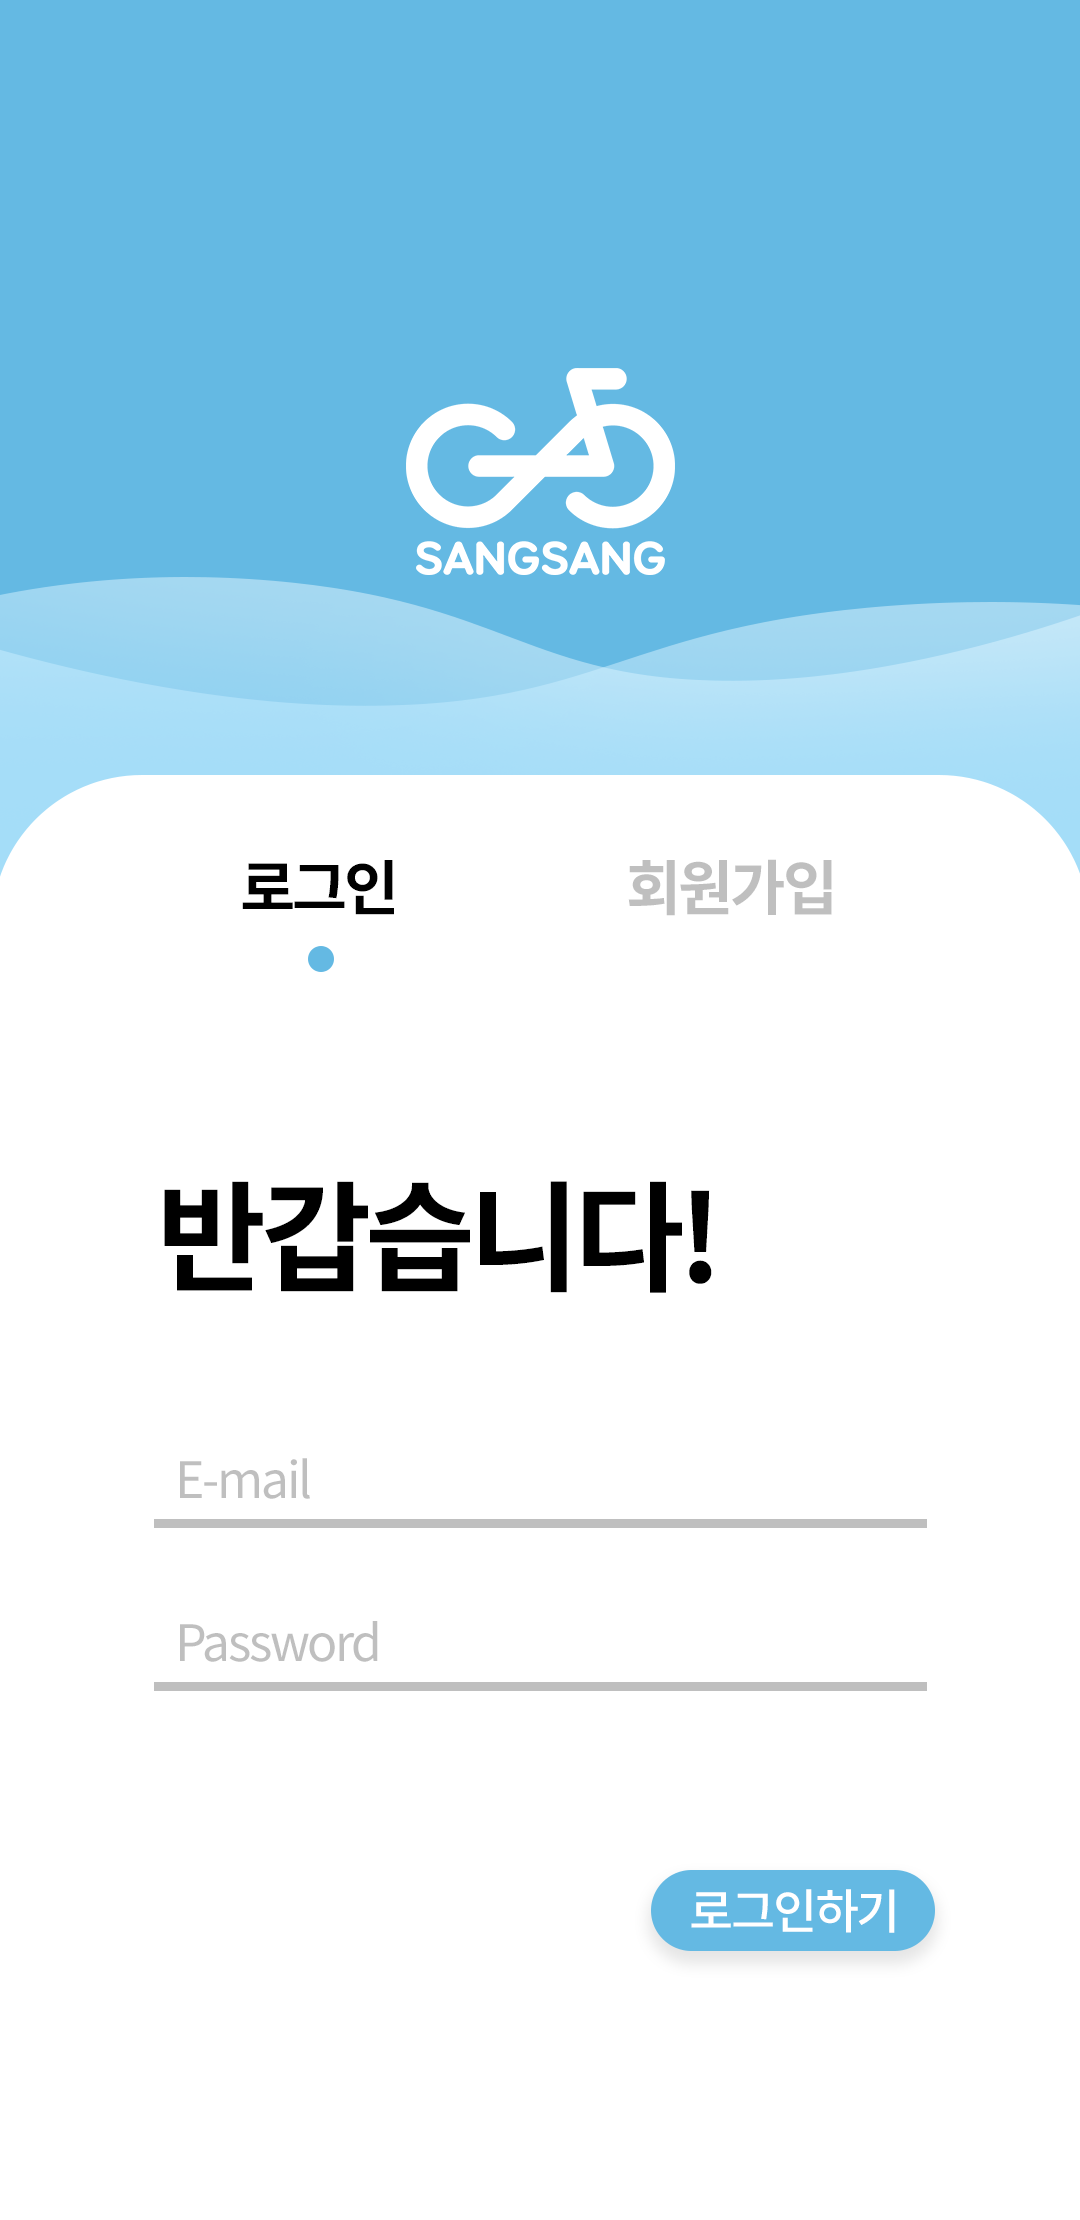
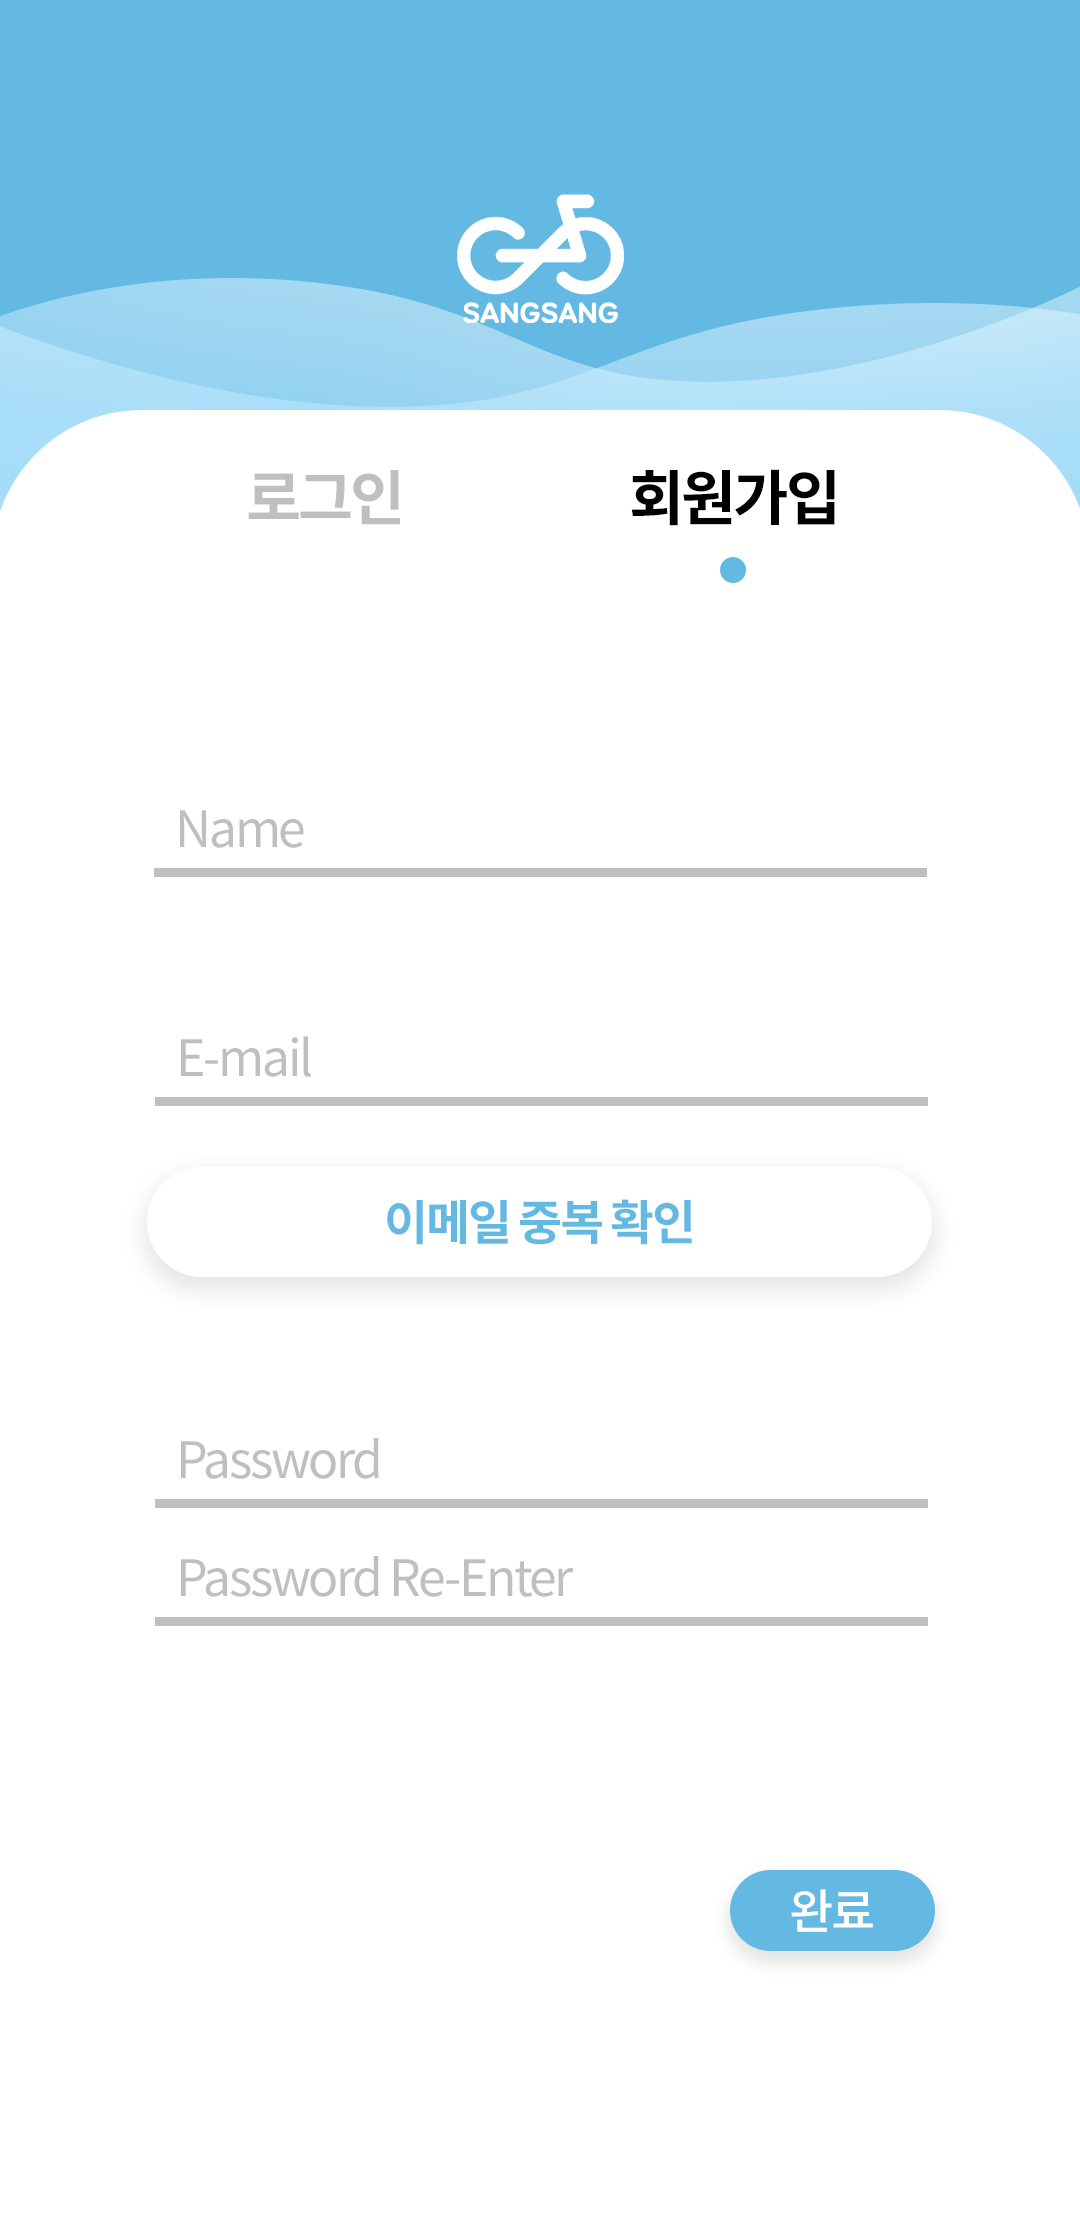
modify img path

diff --git a/imazine_rocket/imazine_bic/templates/imazine_bic/signup.html b/imazine_rocket/imazine_bic/templates/imazine_bic/signup.html
@@ -3,7 +3,7 @@
     <head>
         {% load static %}
         <meta charset="utf-8">
-        <link rel="stylesheet" href="{% static 'css/signup.css' %}" type="text/css">
+        <link rel="stylesheet" href="{% static 'css/signup1.css' %}" type="text/css">
         <script src="https://ajax.googleapis.com/ajax/libs/jquery/3.4.1/jquery.min.js"></script>
         <script type="text/javascript"></script>
         <script src="{% static 'js/signup.js' %}"></script>
@@ -96,20 +96,21 @@
 
     <body>
         {% load static %}
-
         <form action = "{% url 'signup' %}" name = "joinForm" method = "POST" accept-charset="UTF-8"> {% csrf_token %}
             <div id="container">
+                <img id="bkbt" src="{% static 'img/reservation2-bkbt.png' %}" onclick="bkfun();">
+                 <!--뒤로가기 버튼 삽입-->
                 <a href="{% url 'signin'%}">
                     <img id="login-text2" name="login-text2" src="{% static 'img/login-text2.png' %}">
                 </a>
                 <img id="join-text1" src="{% static 'img/join-text1.png' %}">
-                <img id="bar-round" src="{% static 'img/bar-round.png' %}">
+                <img id="bar-round" src="{% static 'img/dot.png' %}">
                 <img id="bar-01" src="{% static 'img/bar-gray.png' %}">
                 <img id="bar-02" src="{% static 'img/bar-gray.png' %}">
                 <img id="bar-03" src="{% static 'img/bar-gray.png' %}">
                 <img id="bar-04" src="{% static 'img/bar-gray.png' %}">
-                <img id="barEmailck" src="{% static 'img/bar-recheck.png' %}">
-                <img id="joinBt"  src="{% static 'img/finishbt.png' %}" onclick = "sm()">
+                <img id="barEmailck" src="{% static 'img/bar-rck.png' %}">
+                <img id="joinBt"  src="{% static 'img/finish-bt.png' %}" onclick = "sm()">
                 <input type="text" name="name" id="name" placeholder="Name"/>
                 <input type="email" name="id" id="id" placeholder="E-mail"/>
                 <input type="password" name="pwd" id="pwd" placeholder="Password"/>

diff --git a/imazine_rocket/imazine_bic/templates/imazine_bic/signin.html b/imazine_rocket/imazine_bic/templates/imazine_bic/signin.html
@@ -3,7 +3,7 @@
     <head>
         {% load static %}
         <meta charset="utf-8">
-        <link rel="stylesheet" href="{% static 'css/signin1.css' %}" type="text/css">
+        <link rel="stylesheet" href="{% static 'css/signin.css' %}" type="text/css">
         <script src="https://ajax.googleapis.com/ajax/libs/jquery/3.4.1/jquery.min.js"></script>
         <script type="text/javascript"></script>
         <script src="{% static 'js/signin.js' %}"></script>
@@ -11,9 +11,10 @@
     </head>
     <body>
         {% load static %}
-
         <form action = "{% url 'signin' %}" name = "loginForm" method = "POST" accept-charset="UTF-8"> {% csrf_token %}
             <div id="container">
+                <img id="bkbt" src="{% static 'img/reservation2-bkbt.png' %}" onclick="bkfun();">
+                 <!--뒤로가기 버튼 삽입-->
                 <img id="login-text1"  src="{% static 'img/login-text1.png' %}">
                 <img id="dot" src="{% static 'img/dot.png' %}">
                 <a href="{% url 'signup'%}"><img id="join-text2" src="{% static 'img/join-text2.png' %}"></a>

diff --git a/imazine_rocket/imazine_bic/static/css/signup1.css b/imazine_rocket/imazine_bic/static/css/signup1.css
@@ -4,7 +4,7 @@
 @font-face { font-family: 'NotoSansCJKKR-Regular'; src: url("../font/NotoSansCJKkr-Regular.otf") } 
 
 body{
-    background-image: url("../img/signup-bg.png");
+    background-image: url("../img/sup-bg.png");
     background-repeat: no-repeat;
     background-size: cover;
 } /*bg img 설정*/
@@ -24,7 +24,7 @@ body{
 #container #bar-round{
     position: absolute;
     top:600px;
-    left:640px;
+    left:700px;
 }/*round bar 위치 설정*/
 
 #container #finishbt{
@@ -77,7 +77,7 @@ body{
 #container #barEmailck{
     position: absolute;
     top:1200px;
-    left:100px;
+    left:150px;
     filter: drop-shadow(30px 30px 30px #e6e4e4); 
 } /*email 중복확인 bt 위치 설정*/
 
@@ -129,6 +129,11 @@ body{
     filter: drop-shadow(30px 30px 30px #e6e4e4); 
 } /*완료 bt 위치 설정*/
 
+#container #bkbt{
+    position: absolute;
+    top:100px;
+    left:60px;
+} /*<- 버튼 위치 설정*/
 
 input::-webkit-input-placeholder {
     position: absolute;

diff --git a/imazine_rocket/imazine_bic/static/css/signin.css b/imazine_rocket/imazine_bic/static/css/signin.css
@@ -10,22 +10,16 @@ body{
     background-size: cover;
 } /*bg img 설정*/
 
-#container #sslogo-big{
-    position: absolute;
-    top:320px;
-    left:390px;
-} /*로고 삽입*/
-
 #container #login-text1{
     position: absolute;
     top: 850px;
     left:200px;
 } /*로그인 txt삽입*/
 
-#container #bar-round{
+#container #dot{
     position: absolute;
     top:950px;
-    left:215px;
+    left:280px;
 } /*라운드 바 삽입*/
 
 #container #join-text2{
@@ -85,8 +79,15 @@ body{
     top:1950px;
     left:620px;
     filter: drop-shadow(30px 30px 30px #e6e4e4); 
-
  } /*loginbt 위치 설쩡*/        
+
+ 
+#container #bkbt{
+    position: absolute;
+    top:100px;
+    left:60px;
+} /*<- 버튼 위치 설정*/
+
 
 input::-webkit-input-placeholder {
     position: absolute;

diff --git a/imazine_rocket/imazine_bic/templates/imazine_bic/choose_lan.html b/imazine_rocket/imazine_bic/templates/imazine_bic/choose_lan.html
@@ -13,9 +13,9 @@
     <body>
         {% load static %}
         <div id="container" class="animated fadeInRight delay-0s">
-            <img id="korean" name="korean" src="{% static 'img/traveler.png' %}">
-            <img id="japan" name="japan" src="{% static 'img/traveler.png' %}">
-            <img id="eng" name="eng" src="{% static 'img/traveler.png' %}">
+            <img id="korean" src="{% static 'img/traveler.png' %}">
+            <img id="japan" src="{% static 'img/traveler.png' %}">
+            <img id="eng"  src="{% static 'img/traveler.png' %}">
             <a href="{% url 'signin'%}"><img id="bar-next" name="bar-next" src="{% static 'img/bar-next.png' %}"></a>
         </div>
     </body>
